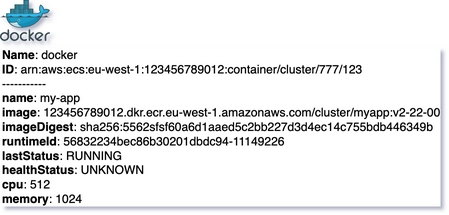
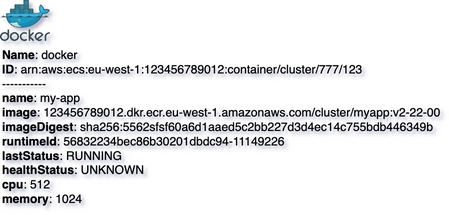
feat: update landscape

diff --git a/docs/docs/onprem-components/docker.md b/docs/docs/onprem-components/docker.md
@@ -46,7 +46,7 @@ New (v0.3.19)
 
 ### Style:
 ```html
-style="sketch=0;aspect=fixed;html=1;points=[];align=left;image;fontSize=12;image=img/lib/mscae/Docker.svg;"
+style="sketch=0;aspect=fixed;html=1;points=[];align=left;image;fontSize=12;image=img/lib/mscae/Docker.svg;labelBackgroundColor=none;"
 ```
 
 | attribute | value |
@@ -57,6 +57,7 @@ style="sketch=0;aspect=fixed;html=1;points=[];align=left;image;fontSize=12;image
 |html| 1 |
 |image|  |
 |image| img/lib/mscae/Docker.svg |
+|labelBackgroundColor| none |
 |points| [] |
 |sketch| 0 |
 
@@ -75,7 +76,7 @@ style="sketch=0;aspect=fixed;html=1;points=[];align=left;image;fontSize=12;image
             <root>
                 <mxCell id="0"/>
                 <mxCell id="1" parent="0"/>
-                <mxCell id="vertex:docker:arn:aws:ecs:eu-west-1:123456789012:container/cluster/777/123" value="&lt;b&gt;Name&lt;/b&gt;: docker&lt;BR&gt;&lt;b&gt;ID&lt;/b&gt;: arn:aws:ecs:eu-west-1:123456789012:container/cluster/777/123&lt;BR&gt;-----------&lt;BR&gt;&lt;b&gt;name&lt;/b&gt;: my-app&lt;BR&gt;&lt;b&gt;image&lt;/b&gt;: 123456789012.dkr.ecr.eu-west-1.amazonaws.com/cluster/myapp:v2-22-00&lt;BR&gt;&lt;b&gt;imageDigest&lt;/b&gt;: sha256:5562sfsf60a6d1aaed5c2bb227d3d4ec14c755bdb446349b&lt;BR&gt;&lt;b&gt;runtimeId&lt;/b&gt;: 56832234bec86b30201dbdc94-11149226&lt;BR&gt;&lt;b&gt;lastStatus&lt;/b&gt;: RUNNING&lt;BR&gt;&lt;b&gt;healthStatus&lt;/b&gt;: UNKNOWN&lt;BR&gt;&lt;b&gt;cpu&lt;/b&gt;: 512&lt;BR&gt;&lt;b&gt;memory&lt;/b&gt;: 1024" style="sketch=0;aspect=fixed;html=1;points=[];align=left;image;fontSize=12;image=img/lib/mscae/Docker.svg;" parent="1" vertex="1">
+                <mxCell id="vertex:docker:arn:aws:ecs:eu-west-1:123456789012:container/cluster/777/123" value="&lt;b&gt;Name&lt;/b&gt;: docker&lt;BR&gt;&lt;b&gt;ID&lt;/b&gt;: arn:aws:ecs:eu-west-1:123456789012:container/cluster/777/123&lt;BR&gt;-----------&lt;BR&gt;&lt;b&gt;name&lt;/b&gt;: my-app&lt;BR&gt;&lt;b&gt;image&lt;/b&gt;: 123456789012.dkr.ecr.eu-west-1.amazonaws.com/cluster/myapp:v2-22-00&lt;BR&gt;&lt;b&gt;imageDigest&lt;/b&gt;: sha256:5562sfsf60a6d1aaed5c2bb227d3d4ec14c755bdb446349b&lt;BR&gt;&lt;b&gt;runtimeId&lt;/b&gt;: 56832234bec86b30201dbdc94-11149226&lt;BR&gt;&lt;b&gt;lastStatus&lt;/b&gt;: RUNNING&lt;BR&gt;&lt;b&gt;healthStatus&lt;/b&gt;: UNKNOWN&lt;BR&gt;&lt;b&gt;cpu&lt;/b&gt;: 512&lt;BR&gt;&lt;b&gt;memory&lt;/b&gt;: 1024" style="sketch=0;aspect=fixed;html=1;points=[];align=left;image;fontSize=12;image=img/lib/mscae/Docker.svg;labelBackgroundColor=none;" parent="1" vertex="1">
                     <mxGeometry width="50" height="41" as="geometry"/>
                 </mxCell>
             </root>
